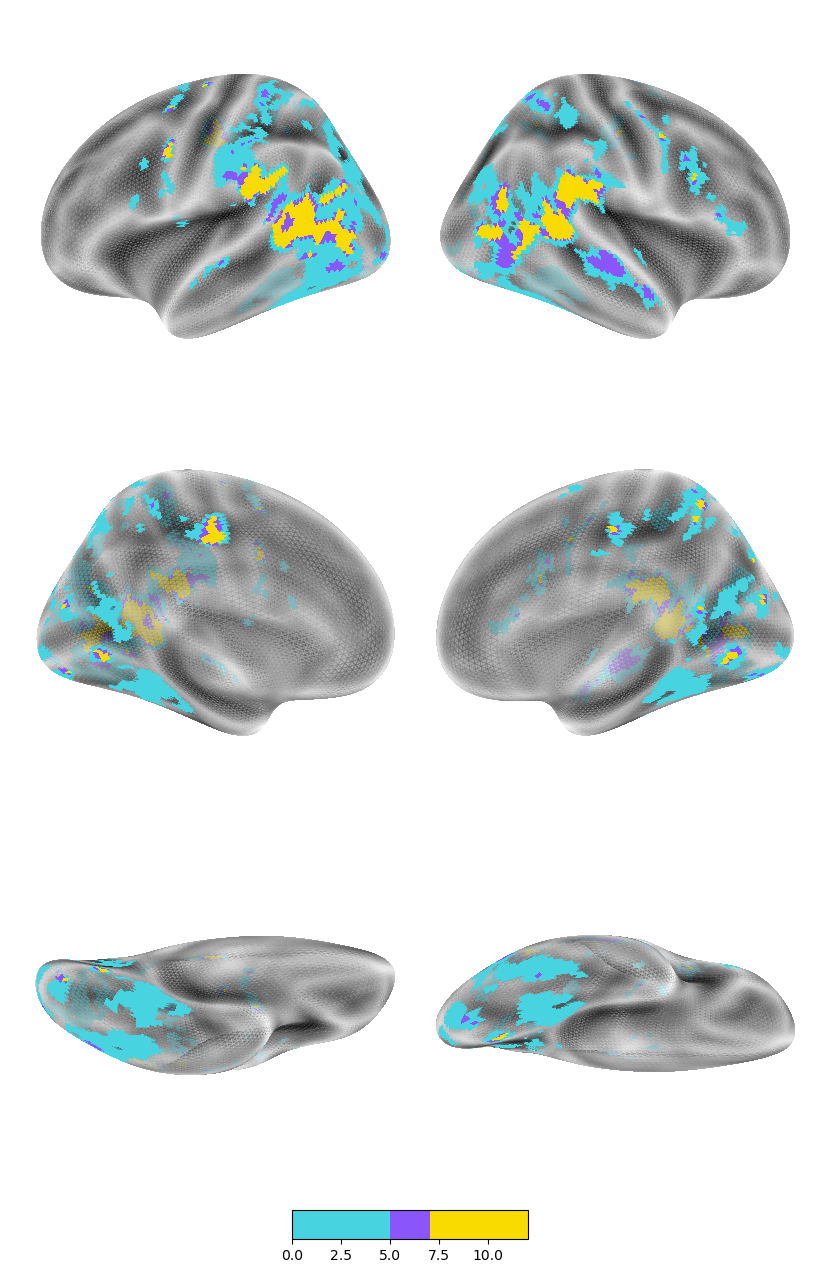
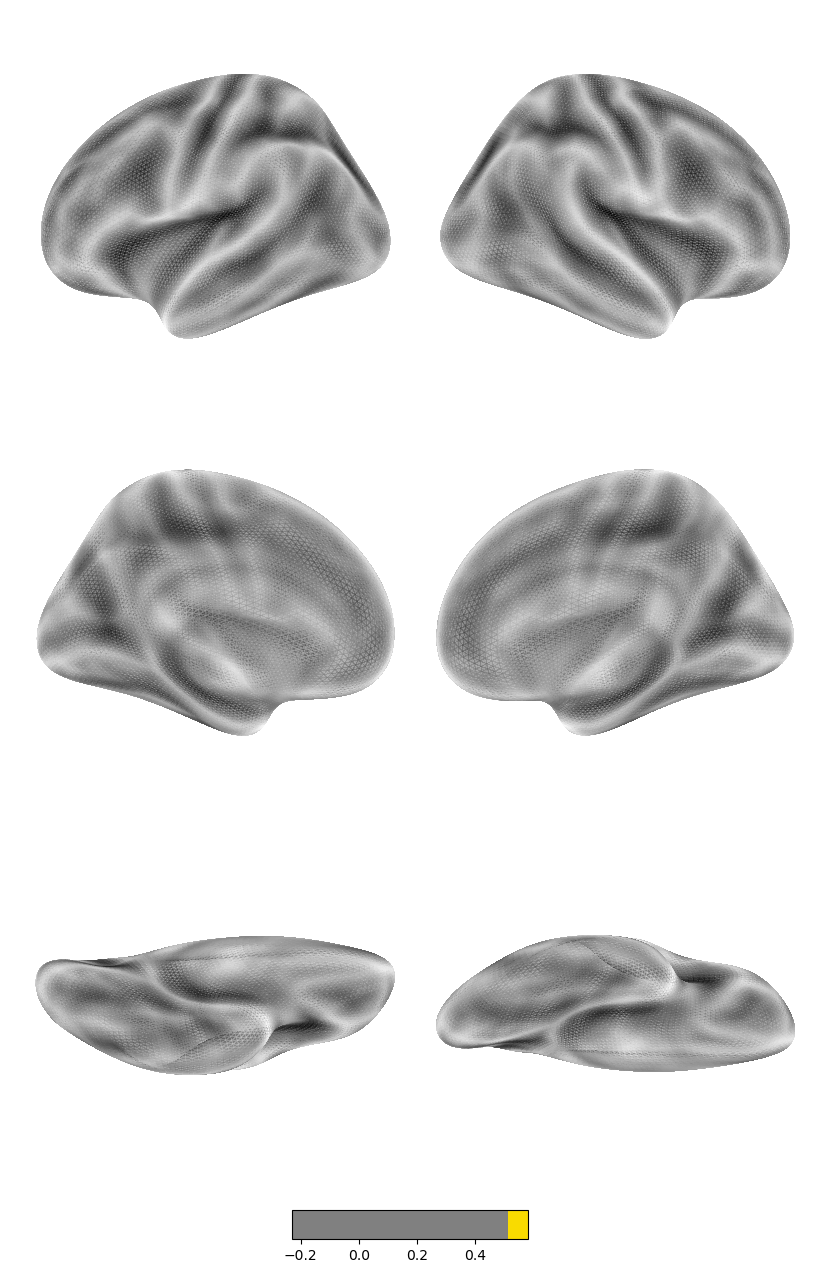
Plotting

diff --git a/scripts/plot_voxel_encoding.py b/scripts/plot_voxel_encoding.py
@@ -16,6 +16,7 @@ from matplotlib import gridspec
 from matplotlib.cm import get_cmap
 from matplotlib.colors import Normalize, LinearSegmentedColormap
 import itertools
+from statsmodels.stats.multitest import multipletests
 
 
 def save(arr, out_name, mode='npy'):
@@ -64,6 +65,22 @@ def mkNifti(arr, mask, im, nii=True):
     return out_im
 
 
+def correct(ps_, rs_, p_crit=1e-2):
+    sig_bool, ps_corrected, _, _ = multipletests(ps_, alpha=p_crit, method='fdr_by')
+    indices = np.where(sig_bool)[0]
+    return sig_bool, rs_[indices].min()
+
+
+def filter_r(rs, ps):
+    ps, threshold = correct(ps, rs)
+    ps = np.invert(ps)
+    indices = np.where(ps)[0]
+    rs[indices] = 0.
+    rs_mask = np.copy(rs)
+    rs_mask[rs != 0.] = 1.
+    return rs, rs_mask, threshold
+
+
 class PlotEncoding():
     def __init__(self, args):
         self.process = 'PlotEncoding'
@@ -79,12 +96,23 @@ class PlotEncoding():
             os.mkdir(self.figure_dir)
         self.fsaverage = datasets.fetch_surf_fsaverage(mesh=args.mesh)
         self.features = []
-        if args.separate_features:
+        self.separate_features = args.separate_features
+        self.overall_prediction = args.overall_prediction
+        if not self.separate_features:
+            if self.overall_prediction:
+                self.cmap = sns.color_palette('magma', as_cmap=True)
+                self.out_name = f'{self.figure_dir}/sub-{self.sid}_overall.png'
+                self.threshold = None
+            else:
+                self.cmap = mk_cmap()
+                self.out_name = f'{self.figure_dir}/sub-{self.sid}_grouped.png'
+                self.threshold = 1.
+        else:
             self.cmap = sns.color_palette('Paired', as_cmap=True)
             self.out_name = f'{self.figure_dir}/sub-{self.sid}_separate.png'
-        else:
-            self.cmap = mk_cmap()
-            self.out_name = f'{self.figure_dir}/sub-{self.sid}_grouped.png'
+            self.threshold = 1.
+        print(self.out_name)
+
 
     def _colorbar_from_array(self, array, threshold, cmap):
         """Generate a custom colorbar for an array.
@@ -195,27 +223,38 @@ class PlotEncoding():
         mask_im = nib.load(f'{self.mask_dir}/sub-all_stat-rho_statmap.nii.gz')
         mask = np.load(f'{self.mask_dir}/sub-all_reliability-mask.npy')
 
-        rs = np.load(f'{self.stat_dir}/sub-all/sub-all_feature-all_rs-filtered.npy').astype('bool')
-        rs = mkNifti(rs, mask, mask_im, nii=False)
+        if not self.overall_prediction:
+            rs = np.load(f'{self.stat_dir}/sub-all/sub-all_feature-all_rs-filtered.npy').astype('bool')
+            rs = mkNifti(rs, mask, mask_im, nii=False)
 
-        base = f'{self.stat_dir}/sub-{self.sid}/sub-{self.sid}_feature-XXX_rs.npy'
-        pred = []
-        for feature in self.features:
-            arr = np.load(base.replace('XXX', feature))
-            arr = np.expand_dims(arr, axis=1)
-            if type(pred) is list:
-                pred = arr
-            else:
-                pred = np.hstack([pred, arr])
-        preference = np.argmax(pred, axis=1)
-        # Make the argmax indexed at 1
-        preference += 1
+            base = f'{self.stat_dir}/sub-{self.sid}/sub-{self.sid}_feature-XXX_rs-mask.npy'
+            pred = []
+            for feature in self.features:
+                arr = np.load(base.replace('XXX', feature))
+                arr = np.expand_dims(arr, axis=1)
+                if type(pred) is list:
+                    pred = arr
+                else:
+                    pred = np.hstack([pred, arr])
+            preference = np.argmax(pred, axis=1)
+            # Make the argmax indexed at 1
+            preference += 1
 
-        # Make the preference values into a volume mask
-        volume = mkNifti(preference, mask, mask_im, nii=False)
-        volume[~rs] = 0
-        volume = volume.astype('float')
-        volume = nib.Nifti1Image(volume.reshape(mask_im.shape), affine=mask_im.affine)
+            # Make the preference values into a volume mask
+            volume = mkNifti(preference, mask, mask_im, nii=False)
+            volume[~rs] = 0
+            volume = volume.astype('float')
+            volume = nib.Nifti1Image(volume.reshape(mask_im.shape), affine=mask_im.affine)
+        else:
+            rs = np.load(f'{self.stat_dir}/sub-{self.sid}/sub-{self.sid}_feature-all_rs.npy')
+            ps = np.load(f'{self.stat_dir}/sub-{self.sid}/sub-{self.sid}_feature-all_ps.npy')
+
+            #Filter the r-values, set threshold, and save output
+            rs, rs_mask, threshold = filter_r(rs, ps)
+            self.threshold = threshold
+            np.save(f'{self.stat_dir}/sub-{self.sid}/sub-all_feature-all_rs-filtered.npy', rs)
+            np.save(f'{self.stat_dir}/sub-{self.sid}/sub-all_feature-all_rs-mask.npy', rs_mask)
+            volume = mkNifti(rs, mask, mask_im)
 
         texture = {'left': self.vol_to_surf(volume, 'left'),
                    'right': self.vol_to_surf(volume, 'right')}
@@ -226,16 +265,16 @@ class PlotEncoding():
         self.load_features()
         volume, texture = self.load()
         self.plot_surface_stats(texture, cmap=self.cmap,
-                                output_file=self.out_name, threshold=1)
+                                output_file=self.out_name,
+                                threshold=self.threshold)
 
 
 def main():
     parser = argparse.ArgumentParser()
     parser.add_argument('--s_num', '-s', type=str)
-    parser.add_argument('--feature', '-f', type=str, default='all')
     parser.add_argument('--mesh', type=str, default='fsaverage5')
-    parser.add_argument('--seaborn_palette', '-palette', type=str, default='magma')
     parser.add_argument('--separate_features', action=argparse.BooleanOptionalAction, default=False)
+    parser.add_argument('--overall_prediction', action=argparse.BooleanOptionalAction, default=False)
     parser.add_argument('--mask_dir', type=str,
                         default='/Users/emcmaho7/Dropbox/projects/SI_fmri/SIfMRI_analysis/data/interim/Reliability')
     parser.add_argument('--annotation_dir', type=str,
